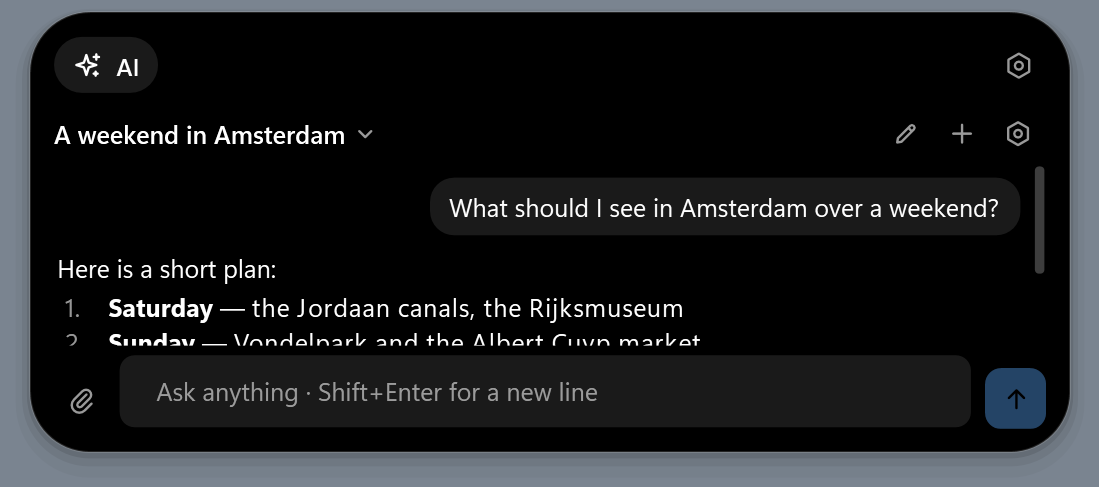
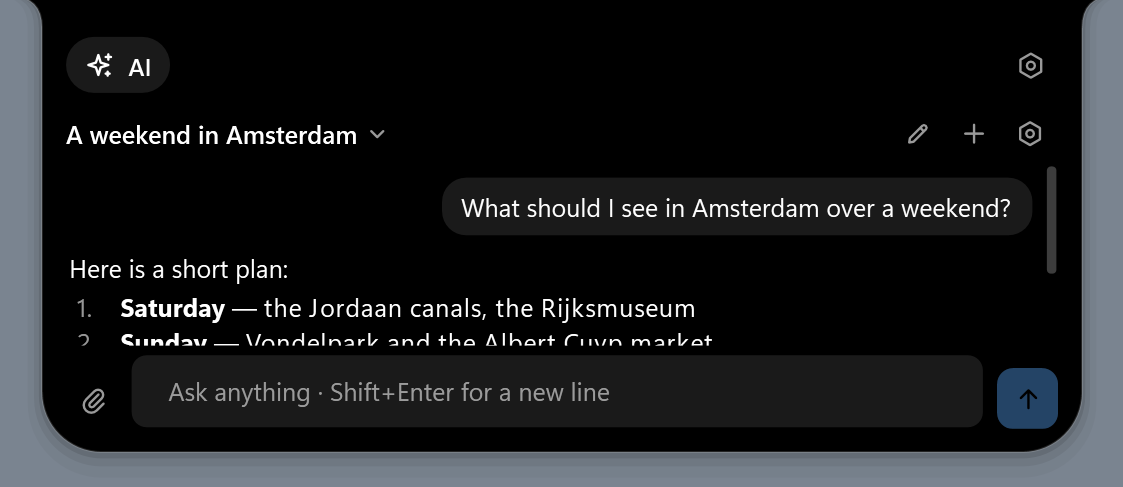
feat(isle): notch shape that hangs from the top edge
The island is now drawn as a notch by default: flush with the top of the
screen, rounded bottom corners and concave ears where it meets the edge.
Settings -> General -> Shape switches back to the floating pill. README
screenshots re-rendered.

diff --git a/src/Isle/IslandWindow.Motion.cs b/src/Isle/IslandWindow.Motion.cs
@@ -17,6 +17,10 @@ public partial class IslandWindow
 
     readonly RectangleGeometry _shape = new();
     readonly RectangleGeometry _shadow1 = new(), _shadow2 = new(), _shadow3 = new();
+    bool _notch;
+
+    /// <summary>"notch" (default): hangs from the top edge of the screen like a curtain. "pill": floats below it.</summary>
+    static bool NotchSetting() => Settings.Current.Opt("shape", "notch") != "pill";
 
     public bool IsExpanded => _expanded;
 
@@ -25,12 +29,29 @@ public partial class IslandWindow
 
     void InitMotion()
     {
+        _notch = NotchSetting();
+        UseGeometries();
+        ApplyShape();
+    }
+
+    /// <summary>Switches between the pill and the notch when the setting changes.</summary>
+    void UpdateShapeKind()
+    {
+        if (_notch == NotchSetting()) return;
+        _notch = !_notch;
+        UseGeometries();
+        ApplyShape();
+    }
+
+    void UseGeometries()
+    {
+        PillLayer.Margin = new Thickness(0, _notch ? 3 : TopGap, 0, 0); // centred in the taller notch
+        if (_notch) return; // the notch builds a new path every frame in ApplyShape
         Body.Clip = _shape;
         Outline.Data = _shape;
         Shadow1.Data = _shadow1;
         Shadow2.Data = _shadow2;
         Shadow3.Data = _shadow3;
-        ApplyShape();
     }
 
     void SetTargets(bool immediate = false)
@@ -83,14 +104,28 @@ public partial class IslandWindow
         double w = Math.Max(8, _w.Value), h = Math.Max(8, _h.Value);
         var r = Math.Min(Math.Min(h / 2, w / 2), MaxRadius);
         var rect = new Rect(BaseWidth / 2 - w / 2, TopGap, w, h);
-        _shape.Rect = rect;
-        _shape.RadiusX = _shape.RadiusY = r;
-
         var p = Math.Clamp(_e.Value, 0, 1);
         var spread = 0.7 + 0.9 * p; // bigger, softer shadow when expanded
-        SetShadow(_shadow1, rect, r, 1.0 * spread, 1.0 * spread);
-        SetShadow(_shadow2, rect, r, 2.5 * spread, 2.0 * spread);
-        SetShadow(_shadow3, rect, r, 4.5 * spread, 3.5 * spread);
+        if (_notch)
+        {
+            // flush with the top edge (a little above it, so the outline's top stroke is off-screen)
+            var notch = new Rect(rect.X, -2, rect.Width, rect.Bottom + 2);
+            var ear = 9 + 7 * p;
+            var shape = NotchGeometry(notch, r, ear);
+            Body.Clip = shape;
+            Outline.Data = shape;
+            Shadow1.Data = NotchShadow(notch, r, ear, 1.0 * spread, 1.0 * spread);
+            Shadow2.Data = NotchShadow(notch, r, ear, 2.5 * spread, 2.0 * spread);
+            Shadow3.Data = NotchShadow(notch, r, ear, 4.5 * spread, 3.5 * spread);
+        }
+        else
+        {
+            _shape.Rect = rect;
+            _shape.RadiusX = _shape.RadiusY = r;
+            SetShadow(_shadow1, rect, r, 1.0 * spread, 1.0 * spread);
+            SetShadow(_shadow2, rect, r, 2.5 * spread, 2.0 * spread);
+            SetShadow(_shadow3, rect, r, 4.5 * spread, 3.5 * spread);
+        }
 
         StageShift.Y = _shift.Value;
 
@@ -133,6 +168,34 @@ public partial class IslandWindow
         g.Rect = s;
         g.RadiusX = g.RadiusY = r + inflate;
     }
+
+    /// <summary>
+    /// A curtain hanging from the top edge: straight sides, rounded bottom corners (<paramref name="r"/>) and concave
+    /// "ears" (<paramref name="ear"/>) where the sides meet the top edge, so the shape grows out of the screen border.
+    /// </summary>
+    internal static StreamGeometry NotchGeometry(Rect rect, double r, double ear)
+    {
+        double x0 = rect.Left, x1 = rect.Right, top = rect.Top, bottom = rect.Bottom;
+        r = Math.Max(0, Math.Min(r, Math.Min(rect.Width / 2, rect.Height - ear)));
+        var g = new StreamGeometry();
+        using (var c = g.Open())
+        {
+            c.BeginFigure(new Point(x0 - ear, top), isFilled: true, isClosed: true);
+            c.QuadraticBezierTo(new Point(x0, top), new Point(x0, top + ear), true, true);
+            c.LineTo(new Point(x0, bottom - r), true, true);
+            c.ArcTo(new Point(x0 + r, bottom), new Size(r, r), 0, false, SweepDirection.Counterclockwise, true, true);
+            c.LineTo(new Point(x1 - r, bottom), true, true);
+            c.ArcTo(new Point(x1, bottom - r), new Size(r, r), 0, false, SweepDirection.Counterclockwise, true, true);
+            c.LineTo(new Point(x1, top + ear), true, true);
+            c.QuadraticBezierTo(new Point(x1, top), new Point(x1 + ear, top), true, true);
+        }
+        g.Freeze();
+        return g;
+    }
+
+    /// <summary>The notch shadow spreads sideways and down only; the top stays on the screen edge.</summary>
+    static StreamGeometry NotchShadow(Rect rect, double r, double ear, double inflate, double dy) =>
+        NotchGeometry(new Rect(rect.X - inflate, rect.Y, rect.Width + 2 * inflate, rect.Height + inflate + dy), r + inflate, ear);
 
     static double Smooth(double t) => t * t * (3 - 2 * t);
 }

diff --git a/src/Isle/Core/Strings.Data.cs b/src/Isle/Core/Strings.Data.cs
@@ -477,6 +477,9 @@ public sealed partial class Strings
         ["set.scale"] = "Size",
         ["set.monitor"] = "Monitor",
         ["set.monitor.primary"] = "Main",
+        ["set.shape"] = "Shape",
+        ["set.shape.notch"] = "Notch",
+        ["set.shape.pill"] = "Pill",
         ["set.clock"] = "Clock in the idle pill",
         ["set.behaviour"] = "Behaviour",
         ["set.fullscreen"] = "Hide in fullscreen apps",
@@ -1139,6 +1142,9 @@ public sealed partial class Strings
         ["set.scale"] = "Розмір",
         ["set.monitor"] = "Монітор",
         ["set.monitor.primary"] = "Основний",
+        ["set.shape"] = "Форма",
+        ["set.shape.notch"] = "Шторка",
+        ["set.shape.pill"] = "Пілюля",
         ["set.clock"] = "Годинник у пілюлі",
         ["set.behaviour"] = "Поведінка",
         ["set.fullscreen"] = "Ховати в повноекранних програмах",

diff --git a/src/Isle/Views/SettingsPanel/SettingsView.cs b/src/Isle/Views/SettingsPanel/SettingsView.cs
@@ -156,6 +156,7 @@ public sealed class SettingsView : Grid, ITabView
             Row("set.monitor", Choice(ids, selectedMonitor.ToString(CultureInfo.InvariantCulture), v => { S.Monitor = int.Parse(v, CultureInfo.InvariantCulture); S.MonitorDevice = S.Monitor >= 0 ? screens[S.Monitor].Device : ""; Save("Monitor"); },
                 v => v == "-1" ? "set.monitor.primary" : null, v => (int.Parse(v, CultureInfo.InvariantCulture) + 1).ToString(CultureInfo.InvariantCulture)));
         }
+        Row("set.shape", Choice(["notch", "pill"], S.Opt("shape", "notch") == "pill" ? "pill" : "notch", v => { S.SetOpt("shape", v); Save("Options"); }, v => "set.shape." + v));
         Row("set.clock", Switch(S.ShowClock, on => { S.ShowClock = on; Save("ShowClock"); }));
 
         Group("set.behaviour");

diff --git a/src/Isle/IslandWindow.xaml.cs b/src/Isle/IslandWindow.xaml.cs
@@ -91,6 +91,7 @@ public partial class IslandWindow : Window
             }
             else if (what is "Monitor" or "") Reposition();
             ApplyExStyle();
+            UpdateShapeKind();
             UpdateIdlePill();
             UpdateHousekeeping();
             CheckForeground();

diff --git a/README.md b/README.md
@@ -3,7 +3,7 @@
 # Isle
 
 **A Dynamic Island for Windows.**<br>
-A small always-on-top pill that shows what is going on, and opens into a panel of everyday tools when you hover it.
+A small notch that hangs from the top of the screen, shows what is going on, and opens into a panel of everyday tools when you hover it.
 
 [![Windows 10/11](https://img.shields.io/badge/Windows-10%20%7C%2011-0078D4?logo=windows&logoColor=white)](#getting-started)
 [![.NET 10](https://img.shields.io/badge/.NET-10-512BD4?logo=dotnet&logoColor=white)](https://dotnet.microsoft.com/)
@@ -223,7 +223,7 @@ For development, `dotnet build` and `dotnet test` work from the repository root.
 ### Settings
 
 The gear in the panel, or right-click the tray icon → **Settings**: theme, size, language (English / Українська),
-monitor, auto-hide at the screen edge, click-through, apps to hide behind, modules on and off, per-module options and
+shape (notch or floating pill), monitor, auto-hide at the screen edge, click-through, apps to hide behind, modules on and off, per-module options and
 hotkeys. Quit from the tray icon or with Alt+F4 while the island is focused.
 
 ## Hotkeys
